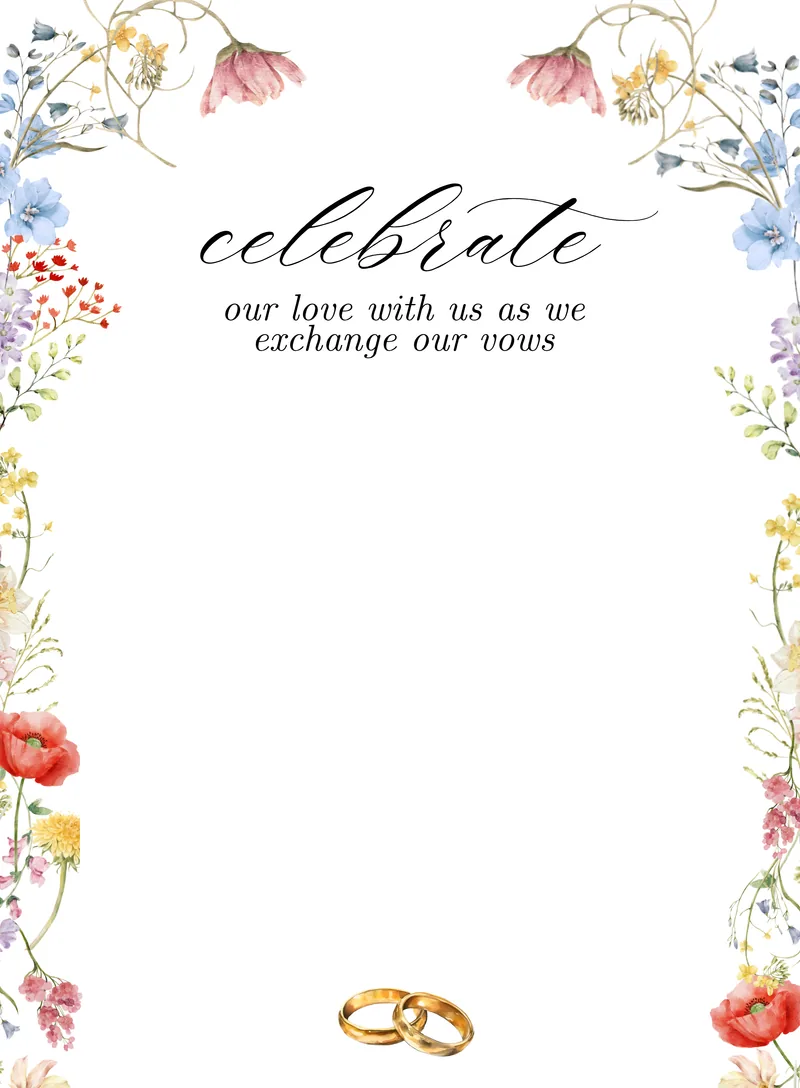
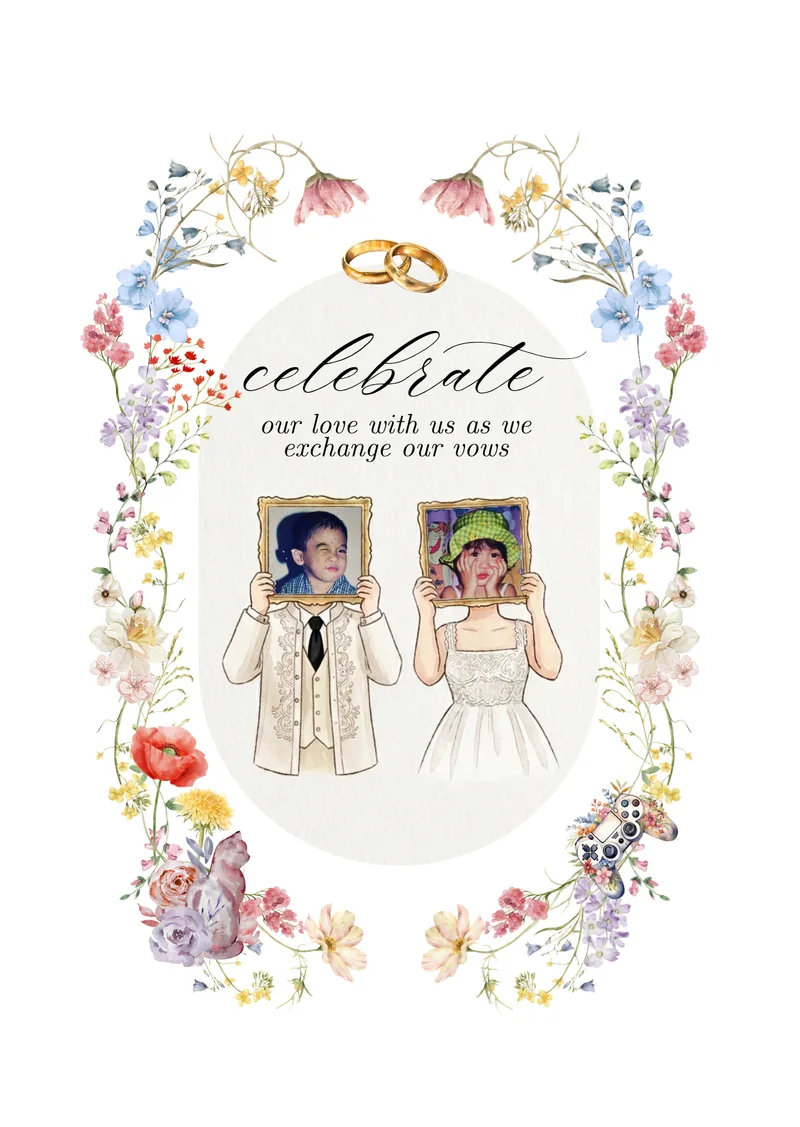
Swap to new Web Hero Page SVG and move hidden game to the end.
The cover now renders the new oval floral wreath illustration (with cat
and controller cameos) and tap-flips the photos inside the gold frames
between the kid and toddler shots without disturbing the SVG frames or
surrounding artwork.  Section order is updated so the hidden garden
game sits after the map/parking guide instead of mid-page.

Made-with: Cursor

diff --git a/src/App.jsx b/src/App.jsx
@@ -771,81 +771,69 @@ END:VCALENDAR`;
       )}
 
       {/* ============================================================ */}
-      {/* SECTION 1 — COVER PAGE (Canva floral frame + interactive photo) */}
+      {/* SECTION 1 — COVER PAGE (Web Hero Page SVG, rasterized)       */}
       {/* ============================================================ */}
       <section className="relative flex flex-col items-center px-3 sm:px-4 pt-4 pb-8" data-reveal="cover" ref={setRef(0)}>
         <div
           className={`relative w-full max-w-md mx-auto reveal ${inView.has("cover") ? "in-view" : ""}`}
         >
           {/*
-            The cover.webp asset is the rasterized Canva frame: floral border,
-            "celebrate" cursive heading, "our love with us as we exchange our
-            vows" subtitle, and the gold wedding-rings illustration.  Its centre
-            is intentionally cleared so we can layer the interactive photo
-            (couplePast / coupleNow) on top.
+            The Web Hero Page SVG is rasterized into TWO WebP variants — the
+            frames, figures, florals, rings, cat, and controller stay baked
+            into the artwork; only the rectangular photos inside the gold
+            frames change between the kid (default) and toddler (tap) state.
           */}
-          <div className="relative" style={{ aspectRatio: "800 / 1088" }}>
+          <button
+            type="button"
+            onClick={handleFlip}
+            aria-label="Tap to reveal younger Bien and Keana inside the wedding frames"
+            className="relative block w-full select-none"
+            style={{
+              aspectRatio: "800 / 1127",
+              background: "transparent",
+              border: "none",
+              padding: 0,
+              cursor: "pointer",
+              touchAction: "manipulation",
+            }}
+          >
             <img
               src="/pages/cover.webp"
-              alt="Wedding e-vite cover with floral border, celebrate cursive heading, exchange-our-vows subtitle, and gold wedding rings"
+              alt="Wedding e-vite cover: oval floral wreath, gold rings, celebrate cursive heading, and Bien and Keana as kids holding gold frames"
               width={800}
-              height={1088}
+              height={1127}
               loading="eager"
               decoding="async"
               fetchPriority="high"
-              className="absolute inset-0 w-full h-full object-contain"
+              className="absolute inset-0 w-full h-full object-contain flip-img"
+              style={{ opacity: showOlder ? 0 : 1 }}
               draggable={false}
             />
-
-            {/* Interactive figures slot — sits inside the cleared centre.
-                Coordinates mirror the eraser bounds in
-                scripts/build-page-assets.mjs (10–91% × 34.5–88.5%). */}
-            <button
-              type="button"
-              onClick={handleFlip}
-              aria-label="Tap photo to reveal younger Bien and Keana"
-              className="absolute select-none"
+            <img
+              src="/pages/cover-past.webp"
+              alt="Wedding e-vite cover with toddler photos of Bien and Keana inside the gold frames"
+              width={800}
+              height={1127}
+              loading="eager"
+              decoding="async"
+              className="absolute inset-0 w-full h-full object-contain flip-img"
+              style={{ opacity: showOlder ? 1 : 0 }}
+              draggable={false}
+            />
+            <span
+              className="absolute pointer-events-none"
               style={{
-                left: "10%",
-                top: "34.5%",
-                width: "81%",
-                height: "54%",
-                background: "transparent",
-                border: "none",
-                padding: 0,
-                cursor: "pointer",
-                touchAction: "manipulation",
+                right: "8%",
+                bottom: "12%",
+                width: 10,
+                height: 10,
+                borderRadius: "50%",
+                background: "var(--gold)",
+                opacity: 0.55,
+                animation: "eggPulse 2.4s ease-in-out infinite",
               }}
-            >
-              <img
-                src={IMAGES.coupleNow}
-                alt="Bien and Keana as kids holding ornate gold frames"
-                className="absolute inset-0 w-full h-full object-contain flip-img"
-                style={{ opacity: showOlder ? 0 : 1 }}
-                draggable={false}
-              />
-              <img
-                src={IMAGES.couplePast}
-                alt="Bien and Keana as toddlers holding ornate gold frames"
-                className="absolute inset-0 w-full h-full object-contain flip-img"
-                style={{ opacity: showOlder ? 1 : 0 }}
-                draggable={false}
-              />
-              <span
-                className="absolute pointer-events-none"
-                style={{
-                  right: "6%",
-                  bottom: "6%",
-                  width: 10,
-                  height: 10,
-                  borderRadius: "50%",
-                  background: "var(--gold)",
-                  opacity: 0.55,
-                  animation: "eggPulse 2.4s ease-in-out infinite",
-                }}
-              />
-            </button>
-          </div>
+            />
+          </button>
 
           <p
             className="font-serif italic text-center text-sm mt-2"
@@ -927,65 +915,9 @@ END:VCALENDAR`;
       />
 
       {/* ============================================================ */}
-      {/* HIDDEN GARDEN GAME (interactive easter eggs)                  */}
-      {/* ============================================================ */}
-      <section className="relative px-4 py-10 sm:py-14" data-reveal="game" ref={setRef(5)}>
-        <div
-          className={`max-w-md mx-auto reveal px-6 py-8 rounded-[20px] ${inView.has("game") ? "in-view" : ""}`}
-          style={{ background: "rgba(255,255,255,0.88)", border: "1px solid rgba(206,164,79,0.38)" }}
-        >
-          <p className="text-center font-serif-sc text-[11px] mb-2" style={{ color: "var(--rose-deep)", letterSpacing: "0.3em" }}>
-            HIDDEN GARDEN GAME
-          </p>
-          <h2 className="text-center font-script text-4xl mb-1" style={{ color: "var(--ink)" }}>
-            for the curious
-          </h2>
-          <p className="text-center font-serif italic text-sm mb-5" style={{ color: "var(--ink-soft)" }}>
-            a tiny cat and a tiny controller are hiding among the flowers — tap to find them.
-          </p>
-          <div
-            className="relative h-44 rounded-lg"
-            style={{
-              background: "linear-gradient(180deg, rgba(255,255,255,0.32), rgba(149,199,145,0.18))",
-              border: "1px solid rgba(92,141,88,0.25)",
-            }}
-          >
-            <div className="absolute left-2 bottom-0"><Sprig size={72} rotate={165} /></div>
-            <div className="absolute left-10 bottom-1"><Daisy size={40} /></div>
-            <div className="absolute right-3 bottom-0"><Sprig size={78} rotate={195} /></div>
-            <div className="absolute right-14 bottom-1"><Poppy size={42} hue="rose" /></div>
-            <div className="absolute left-1/2 -translate-x-1/2 bottom-1"><Cornflower size={36} /></div>
-            <button
-              onClick={() => handleEggClick("cat")}
-              className={`easter-egg absolute ${foundCat ? "found" : "egg-hint"}`}
-              style={{ left: "17%", bottom: "26%", border: "none", background: "transparent", fontSize: 20, opacity: foundCat ? 1 : 0.32 }}
-              aria-label="Hidden cat"
-            >
-              🐈
-            </button>
-            <button
-              onClick={() => handleEggClick("controller")}
-              className={`easter-egg absolute ${foundController ? "found" : "egg-hint"}`}
-              style={{ right: "20%", top: "24%", border: "none", background: "transparent", fontSize: 20, opacity: foundController ? 1 : 0.32 }}
-              aria-label="Hidden controller"
-            >
-              🎮
-            </button>
-          </div>
-          <p className="text-center font-serif italic text-xs mt-3" style={{ color: "var(--ink-soft)" }}>
-            {foundCat && foundController
-              ? "you found both hidden icons."
-              : foundCat || foundController
-                ? "one down, one to go."
-                : "find the hidden cat and controller."}
-          </p>
-        </div>
-      </section>
-
-      {/* ============================================================ */}
       {/* SECTION 6 — RSVP                                             */}
       {/* ============================================================ */}
-      <section className="relative px-4 py-14 sm:py-16" data-reveal="rsvp" ref={setRef(6)} style={{ background: "transparent", color: "var(--ink)" }}>
+      <section className="relative px-4 py-14 sm:py-16" data-reveal="rsvp" ref={setRef(5)} style={{ background: "transparent", color: "var(--ink)" }}>
         <div
           className={`max-w-md mx-auto reveal px-6 py-8 rounded-[20px] ${inView.has("rsvp") ? "in-view" : ""}`}
           style={{ color: "var(--ink)", background: "rgba(255,255,255,0.92)", border: "1px solid rgba(206,164,79,0.38)" }}
@@ -1131,7 +1063,7 @@ END:VCALENDAR`;
       <SvgPage
         src="/pages/details.webp"
         alt="Ceremony at 9:30 AM Santisimo Rosario Parish UST, reception 11:30 AM at UST Central Seminary Gym, with parking instructions"
-        sectionRef={setRef(7)}
+        sectionRef={setRef(6)}
         revealKey="details"
         isInView={inView.has("details")}
       />
@@ -1139,7 +1071,7 @@ END:VCALENDAR`;
       {/* ============================================================ */}
       {/* SECTION 8 — MAP / LOCATION / PARKING GUIDE                  */}
       {/* ============================================================ */}
-      <section className="relative px-4 py-10 sm:py-14" data-reveal="map" ref={setRef(8)}>
+      <section className="relative px-4 py-10 sm:py-14" data-reveal="map" ref={setRef(7)}>
         <div
           className={`max-w-md mx-auto reveal px-6 py-8 rounded-[20px] ${inView.has("map") ? "in-view" : ""}`}
           style={{ background: "rgba(255,255,255,0.88)", border: "1px solid rgba(206,164,79,0.38)" }}
@@ -1187,6 +1119,62 @@ END:VCALENDAR`;
               OPEN OFFICIAL UST WEBSITE MAP
             </a>
           </div>
+        </div>
+      </section>
+
+      {/* ============================================================ */}
+      {/* SECTION 9 — HIDDEN GARDEN GAME (interactive easter eggs)     */}
+      {/* ============================================================ */}
+      <section className="relative px-4 py-10 sm:py-14" data-reveal="game" ref={setRef(8)}>
+        <div
+          className={`max-w-md mx-auto reveal px-6 py-8 rounded-[20px] ${inView.has("game") ? "in-view" : ""}`}
+          style={{ background: "rgba(255,255,255,0.88)", border: "1px solid rgba(206,164,79,0.38)" }}
+        >
+          <p className="text-center font-serif-sc text-[11px] mb-2" style={{ color: "var(--rose-deep)", letterSpacing: "0.3em" }}>
+            HIDDEN GARDEN GAME
+          </p>
+          <h2 className="text-center font-script text-4xl mb-1" style={{ color: "var(--ink)" }}>
+            for the curious
+          </h2>
+          <p className="text-center font-serif italic text-sm mb-5" style={{ color: "var(--ink-soft)" }}>
+            a tiny cat and a tiny controller are hiding among the flowers — tap to find them.
+          </p>
+          <div
+            className="relative h-44 rounded-lg"
+            style={{
+              background: "linear-gradient(180deg, rgba(255,255,255,0.32), rgba(149,199,145,0.18))",
+              border: "1px solid rgba(92,141,88,0.25)",
+            }}
+          >
+            <div className="absolute left-2 bottom-0"><Sprig size={72} rotate={165} /></div>
+            <div className="absolute left-10 bottom-1"><Daisy size={40} /></div>
+            <div className="absolute right-3 bottom-0"><Sprig size={78} rotate={195} /></div>
+            <div className="absolute right-14 bottom-1"><Poppy size={42} hue="rose" /></div>
+            <div className="absolute left-1/2 -translate-x-1/2 bottom-1"><Cornflower size={36} /></div>
+            <button
+              onClick={() => handleEggClick("cat")}
+              className={`easter-egg absolute ${foundCat ? "found" : "egg-hint"}`}
+              style={{ left: "17%", bottom: "26%", border: "none", background: "transparent", fontSize: 20, opacity: foundCat ? 1 : 0.32 }}
+              aria-label="Hidden cat"
+            >
+              🐈
+            </button>
+            <button
+              onClick={() => handleEggClick("controller")}
+              className={`easter-egg absolute ${foundController ? "found" : "egg-hint"}`}
+              style={{ right: "20%", top: "24%", border: "none", background: "transparent", fontSize: 20, opacity: foundController ? 1 : 0.32 }}
+              aria-label="Hidden controller"
+            >
+              🎮
+            </button>
+          </div>
+          <p className="text-center font-serif italic text-xs mt-3" style={{ color: "var(--ink-soft)" }}>
+            {foundCat && foundController
+              ? "you found both hidden icons."
+              : foundCat || foundController
+                ? "one down, one to go."
+                : "find the hidden cat and controller."}
+          </p>
         </div>
       </section>
 
